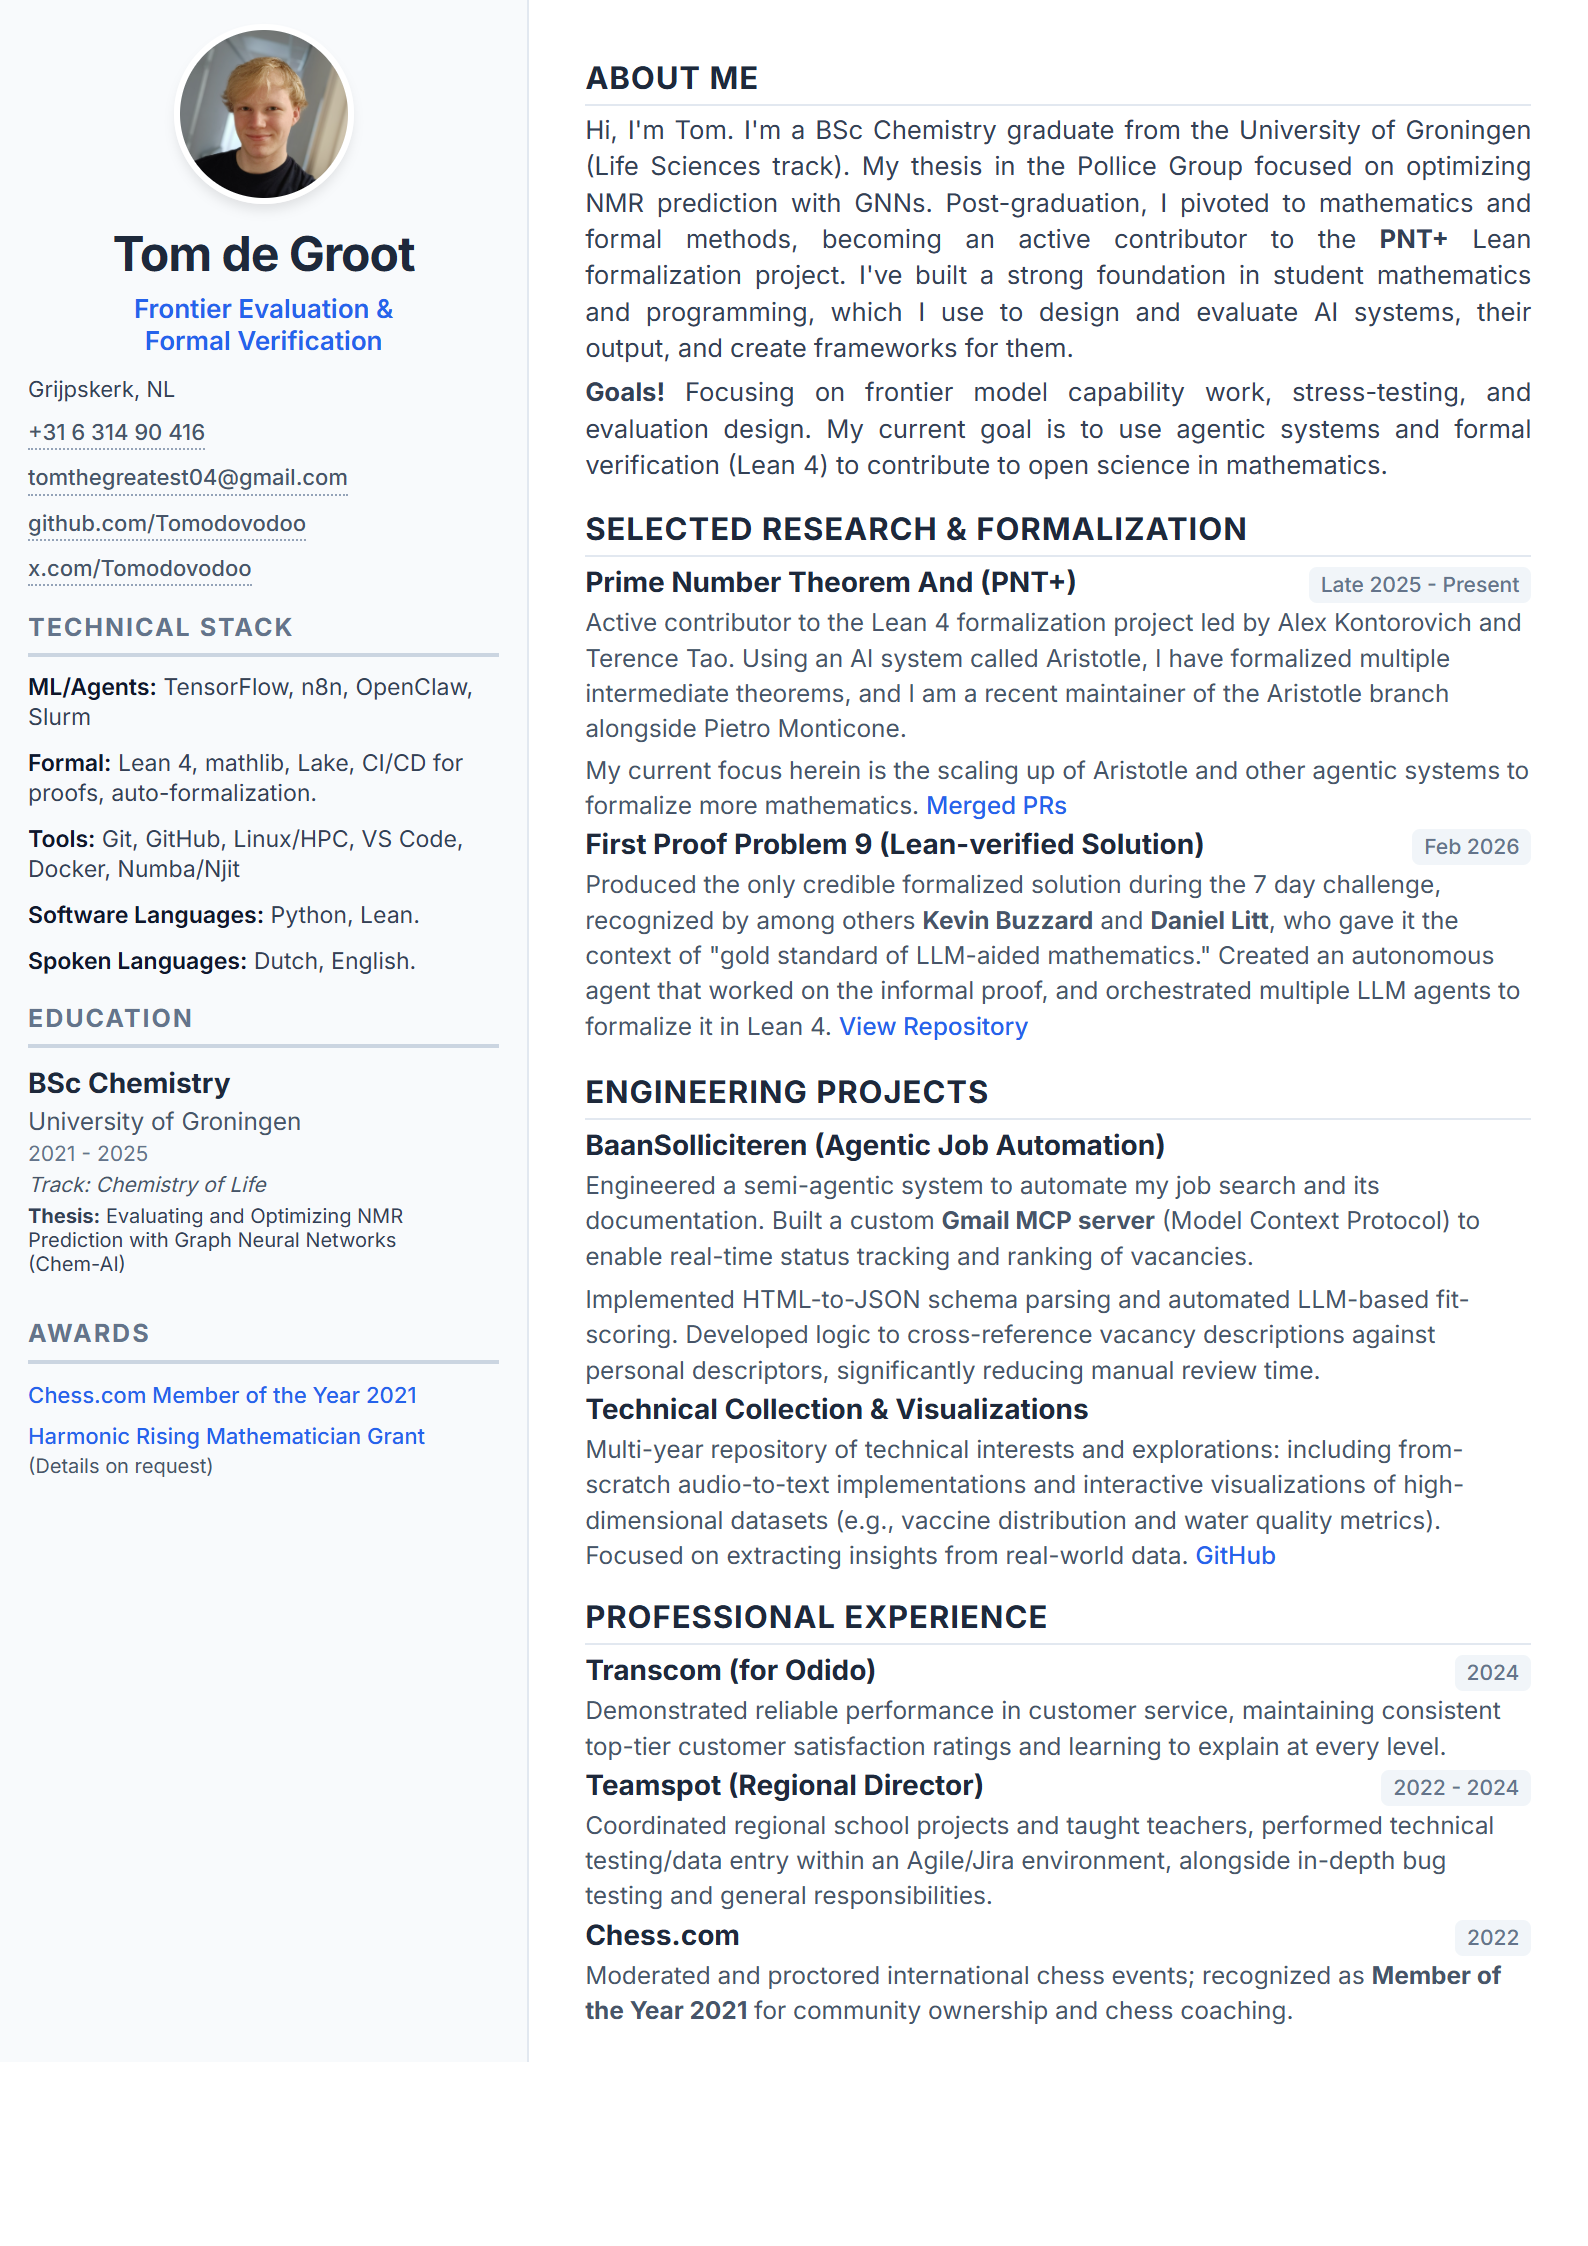
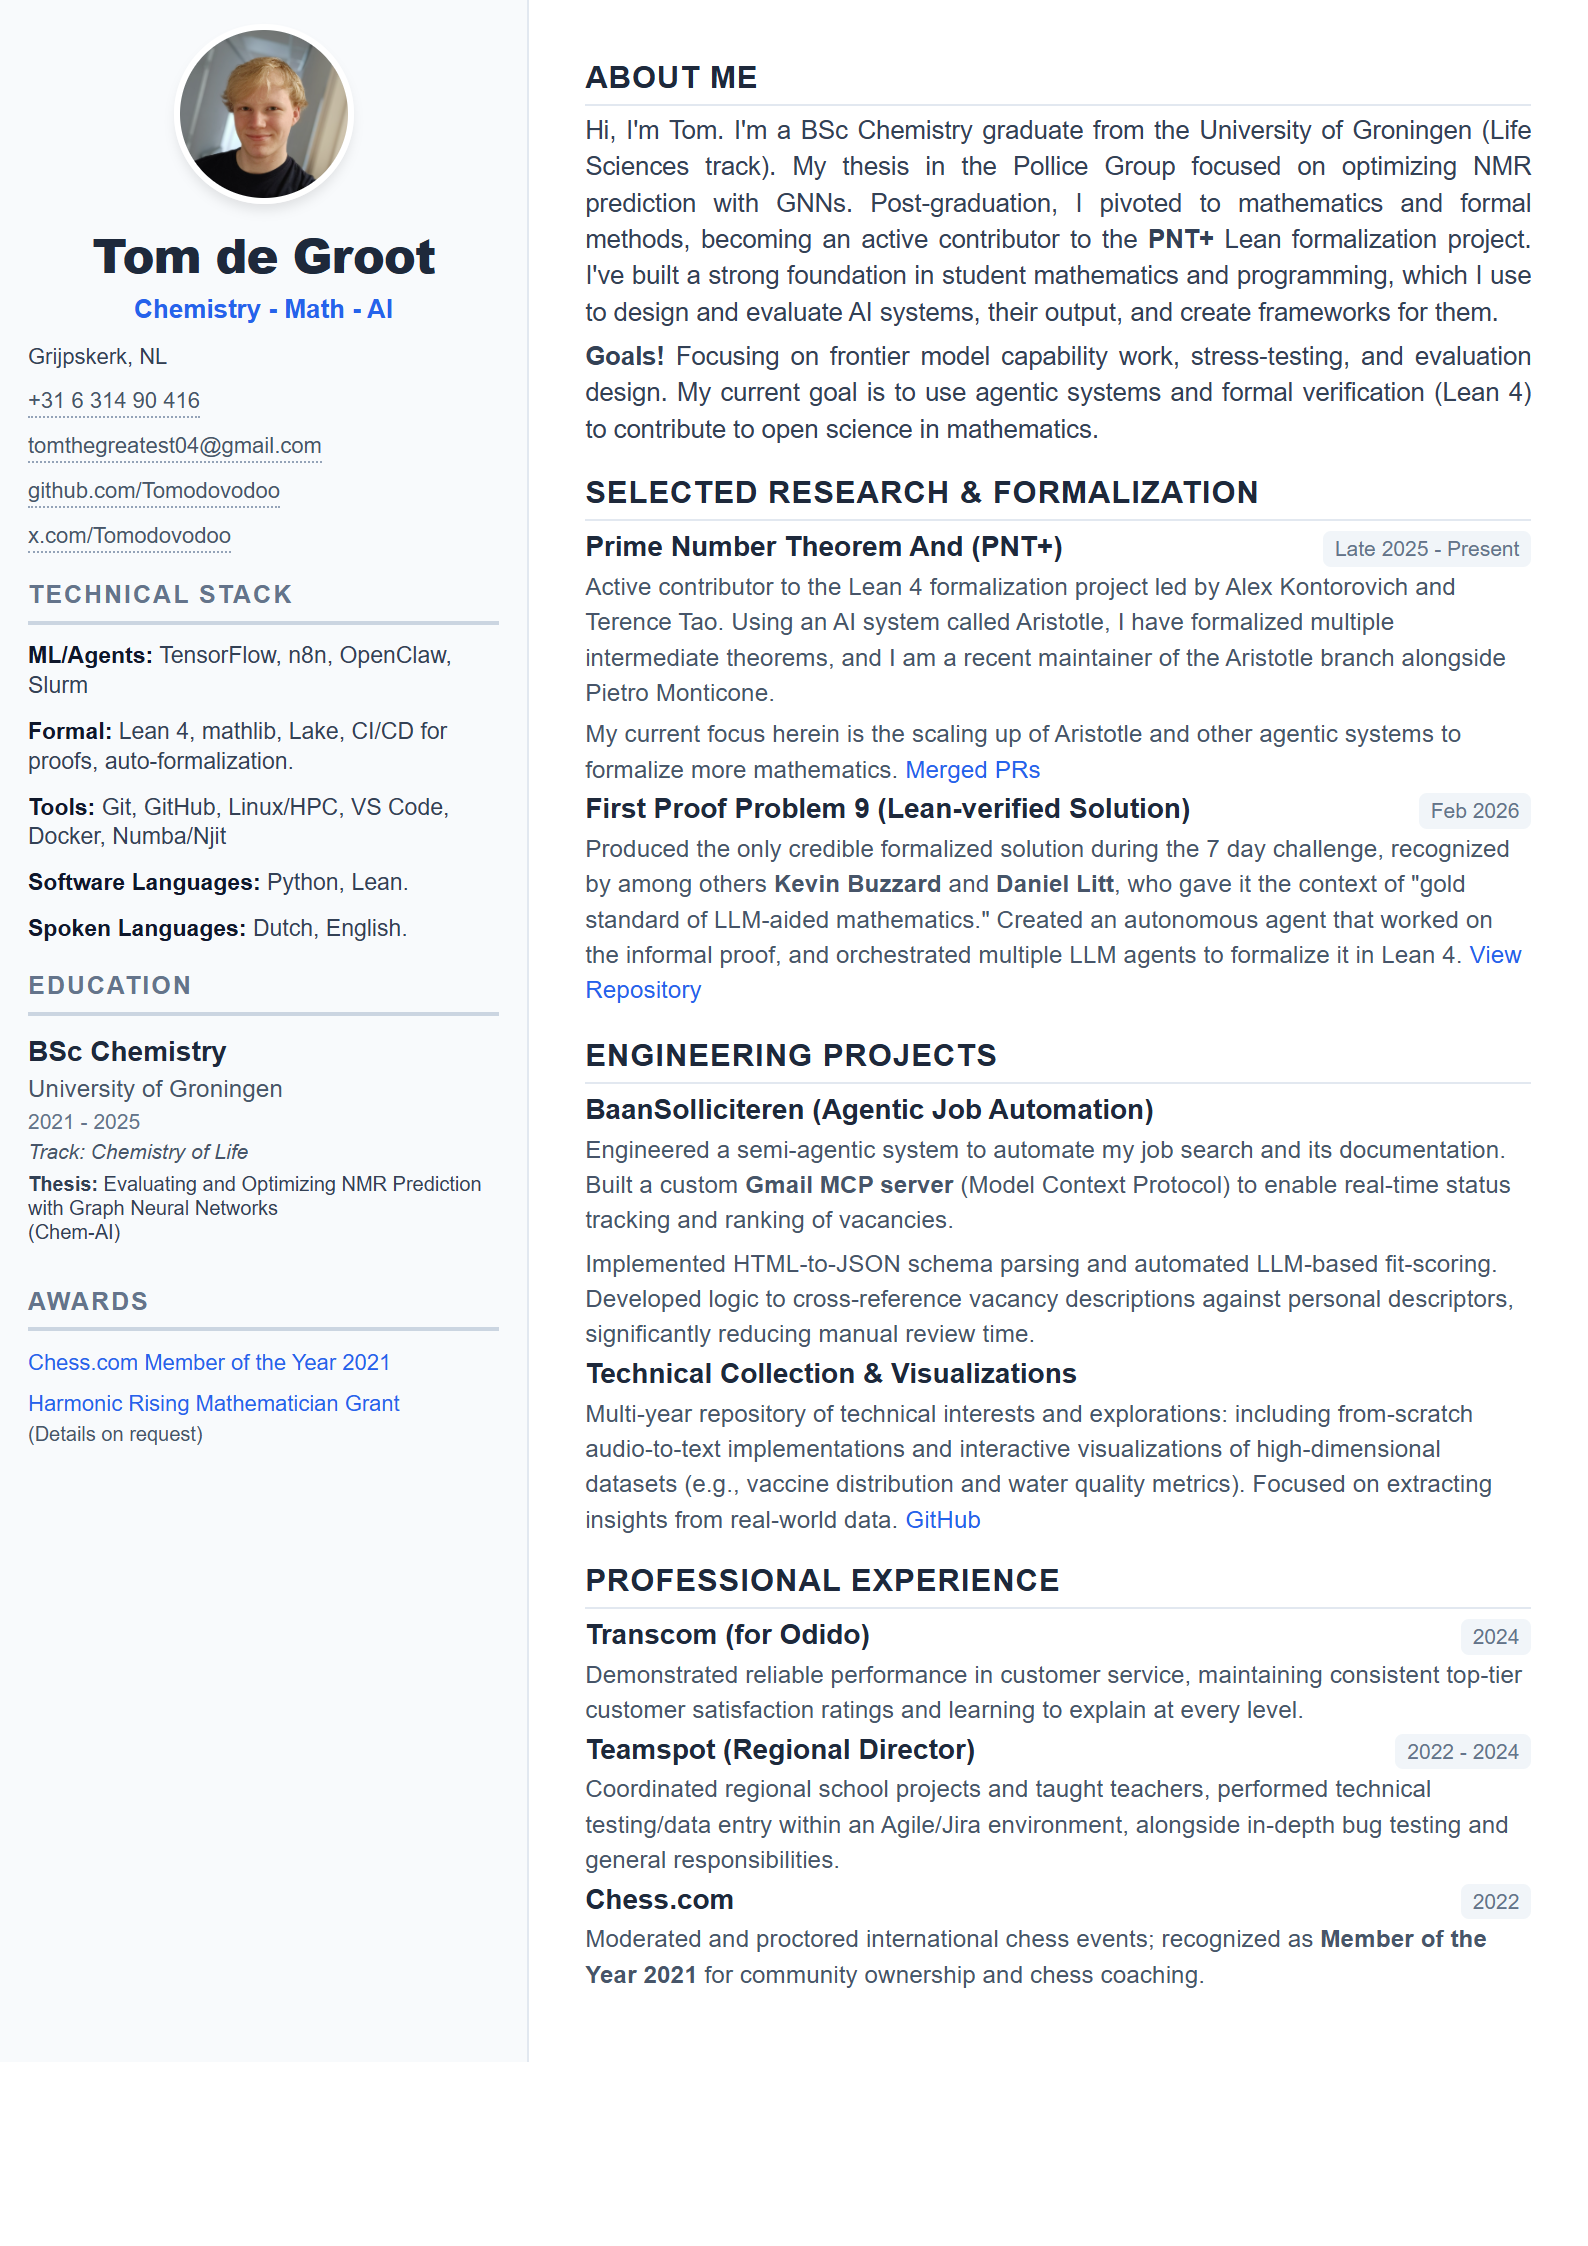
Update CV files

Changed region(s): [[0.3703, 0.0312, 0.9565, 0.9038], [0.0, 0.0935, 0.3086, 0.6545]]

diff --git a/SimpleCV/CV.html b/SimpleCV/CV.html
@@ -196,7 +196,7 @@
                 
                 <div class="contact-section">
                     <h1>Tom de Groot</h1>
-                    <span class="subtitle">Frontier Evaluation &<br>Formal Verification</span>
+                    <span class="subtitle">Chemistry - Math - AI</span>
                     
                     <div class="contact-details">
                         <p>Grijpskerk, NL</p>
